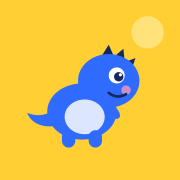
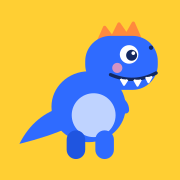
Noah APP 1.3: dinosaurio nuevo y toque andaluz en los textos
Claude-Session: https://claude.ai/code/session_01V91GhtCZwcaUQd7ALdhq1k

Changed region(s): [[0.1111, 0.0833, 0.9167, 0.8889]]

diff --git a/src/ui.js b/src/ui.js
@@ -34,7 +34,7 @@
   function ageText() {
     var n = ageDays(); if (n == null) return ''; if (n < 0) return 'Aún no ha nacido';
     if (n < 14) return plural(n, 'día', 'días');
-    if (n < 91) { var w = Math.floor(n / 7), r = n % 7; return plural(w, 'semana', 'semanas') + (r ? ' y ' + plural(r, 'día', 'días') : ''); }
+    if (n < 91) { var w = Math.floor(n / 7), r = n % 7; return plural(w, 'semanita', 'semanitas') + (r ? ' y ' + plural(r, 'día', 'días') : ''); }
     var b = parseD(birth()), t = new Date(), m = (t.getFullYear() - b.getFullYear()) * 12 + t.getMonth() - b.getMonth(); if (t.getDate() < b.getDate()) m--;
     var rest = days(addMonths(birth(), m), today());
     if (m < 24) return plural(m, 'mes', 'meses') + (rest ? ' y ' + plural(rest, 'día', 'días') : '');
@@ -101,7 +101,7 @@
   }
 
   /* ---------- piezas visuales ---------- */
-  var DINO = '<svg class="dino" viewBox="0 0 200 200" aria-hidden="true"><path d="M44 150c-20 2-34-8-38-20 14 6 28 4 40-4z" fill="#2F6BFF"/><path d="M118 44l10-16 8 18 14-12 2 20 16-6-6 18" fill="#14285E"/><ellipse cx="88" cy="128" rx="52" ry="42" fill="#2F6BFF"/><ellipse cx="128" cy="82" rx="46" ry="40" fill="#2F6BFF"/><ellipse cx="92" cy="136" rx="30" ry="26" fill="#DCE7FF"/><rect x="58" y="156" width="20" height="26" rx="10" fill="#2F6BFF"/><rect x="98" y="156" width="20" height="26" rx="10" fill="#2F6BFF"/><path d="M124 122q14 2 16 12" stroke="#2F6BFF" stroke-width="10" stroke-linecap="round" fill="none"/><circle cx="140" cy="74" r="12" fill="#fff"/><circle cx="143" cy="76" r="7" fill="#14285E"/><circle cx="145.5" cy="73" r="2.4" fill="#fff"/><circle cx="154" cy="96" r="7" fill="#FF9EB4" opacity=".75"/><path d="M128 100q12 10 26 2" stroke="#14285E" stroke-width="4" stroke-linecap="round" fill="none"/></svg>';
+  var DINO = '<svg class="dino" viewBox="0 0 200 200" aria-hidden="true"><g transform="translate(8 6)"><path d="M62 118 C40 124 22 138 10 162 C34 156 52 150 70 142 Z" fill="#2F6BFF"/><path d="M104 40 l7-16 9 12 8-16 9 13 8-14 7 16 z" fill="#FF8A3D" stroke="#FF8A3D" stroke-width="4" stroke-linejoin="round"/><ellipse cx="92" cy="118" rx="44" ry="42" fill="#2F6BFF"/><rect x="88" y="34" width="86" height="64" rx="30" fill="#2F6BFF"/><path d="M96 70 C90 84 88 96 92 108 L120 100 Z" fill="#2F6BFF"/><ellipse cx="98" cy="128" rx="26" ry="26" fill="#BFD3FF"/><rect x="66" y="146" width="22" height="34" rx="11" fill="#1F55E0"/><rect x="100" y="146" width="22" height="34" rx="11" fill="#2F6BFF"/><path d="M124 108 q12 4 12 14" stroke="#2F6BFF" stroke-width="8" stroke-linecap="round" fill="none"/><path d="M118 80 Q146 92 172 78" stroke="#14285E" stroke-width="4" stroke-linecap="round" fill="none"/><path d="M130 85 l4 7 4-6 M146 86 l4 7 4-7 M160 83 l3 6 4-7" fill="#fff" stroke="#fff" stroke-width="2.5" stroke-linejoin="round"/><circle cx="140" cy="56" r="11" fill="#fff"/><circle cx="143" cy="57" r="6.5" fill="#14285E"/><circle cx="145" cy="54.5" r="2.2" fill="#fff"/><circle cx="166" cy="48" r="2.6" fill="#14285E"/><circle cx="126" cy="72" r="6" fill="#FF9EB4" opacity=".8"/></g></svg>';
   var ICON = {
     cal: '<svg viewBox="0 0 24 24"><rect x="3.5" y="5" width="17" height="15" rx="3"/><path d="M3.5 10h17M8 3v4M16 3v4"/></svg>',
     phone: '<svg viewBox="0 0 24 24"><path d="M5 4h4l2 5-2.5 1.5a11 11 0 0 0 5 5L15 13l5 2v4a2 2 0 0 1-2 2A16 16 0 0 1 3 6a2 2 0 0 1 2-2"/></svg>',
@@ -139,10 +139,11 @@
     var kind = last.birth || last.rec.tipo === 'consulta' ? 'consulta' : 'farmacia', ser = weights(kind), i = ser.findIndex(function (x) { return x.id === last.id; });
     return { w: last, prev: ser[i - 1] };
   }
+  function greet() { var h = new Date().getHours(), n = S.me && S.me.name ? ', ' + esc(S.me.name) : ''; return (h < 6 ? '¡Buenas noches' : h < 13 ? '¡Buenos días' : h < 21 ? '¡Buenas tardes' : '¡Buenas noches') + n + '!'; }
   function gainShort(a, b) { var g = b.g - a.g, d = days(a.fecha, b.fecha) || 0; return d >= 4 && g > 0 ? '+' + Math.round(g / d * 7) + ' g/semana' : signed(g) + ' en ' + plural(d, 'día', 'días'); }
   function vHome() {
     var p = perfil(), up = live('cita').filter(function (c) { return c.fecha >= today(); }).sort(cmpCita), next = up[0];
-    var h = '<div class="home"><section class="hero"><div class="hd">' + DINO + '</div><div class="hn"><h1>' + esc(p.nombre || 'Noah') + '</h1><p>' + esc(ageText() || 'Pon su fecha de nacimiento en Ajustes') + '</p></div><button class="gear" data-act="settings" aria-label="Ajustes">' + ICON.gear + '</button></section>';
+    var h = '<div class="home"><section class="hero"><div class="hd">' + DINO + '</div><div class="hn"><p class="hi">' + greet() + '</p><h1>' + esc(p.nombre || 'Noah') + '</h1><p>' + esc(ageText() || 'Pon su fecha de nacimiento en Ajustes') + '</p></div><button class="gear" data-act="settings" aria-label="Ajustes">' + ICON.gear + '</button></section>';
     if (!S.recs.length) return h + '<div class="card hi"><h3>Empieza aquí</h3><p class="mut">Pega el texto de importación y aparecerán los datos de Noah.</p><div class="row2"><button class="btn" data-act="import">Importar datos</button></div></div></div>';
     if (next) {
       h += '<div class="card nx" data-act="editCita" data-id="' + next.id + '"><div class="nxm">' + dateBox(next.fecha) + '<div class="lm"><p class="lbl">Próxima cita · ' + rel(next.fecha) + '</p><p class="strong">' + esc(next.d.titulo) + '</p><p class="mut sm">' + citaLine(next) + '</p></div><a class="ib" href="' + esc(calLink(next)) + '" target="_blank" rel="noopener" aria-label="Añadir a Calendar">' + ICON.cal + '</a></div>';
@@ -150,10 +151,10 @@
       h += '</div>';
     }
     var lw = lastWeight(), nv = nextVac(), tr = activeTreat(), pend = live('pendiente').filter(function (x) { return !x.d.hecho; });
-    h += '<div class="tiles"><div class="tile" data-act="go" data-v="peso"><p class="lbl">Peso' + (lw ? ' · ' + fd(lw.w.fecha) : '') + '</p>' + (lw ? '<p class="big">' + kg(lw.w.g) + '<small>kg</small></p>' + pcChip(ageDays(lw.w.fecha), lw.w.g) + (function () { var st = weightStatus(); return st ? '<p class="sm stl s-' + st.level + '">' + (st.level === 'ok' ? 'Va muy bien' : esc(st.title)) + '</p>' : ''; })() : '<p class="mut">Sin pesadas</p>') + '</div>';
+    h += '<div class="tiles"><div class="tile" data-act="go" data-v="peso"><p class="lbl">Peso' + (lw ? ' · ' + fd(lw.w.fecha) : '') + '</p>' + (lw ? '<p class="big">' + kg(lw.w.g) + '<small>kg</small></p>' + pcChip(ageDays(lw.w.fecha), lw.w.g) + (function () { var st = weightStatus(); return st ? '<p class="sm stl s-' + st.level + '">' + (st.level === 'ok' ? 'Va de lujo' : esc(st.title)) + '</p>' : ''; })() : '<p class="mut">Sin pesadas</p>') + '</div>';
     h += '<div class="tile" data-act="go" data-v="vacunas"><p class="lbl">Vacunas</p>' + (nv ? '<p class="big">' + esc(nv.g.label) + '</p><p class="mut sm">' + (nv.cita ? 'Cita ' + fd(nv.cita.fecha) + (nv.cita.d.hora ? ' · ' + esc(nv.cita.d.hora) : '') : 'Desde el ' + fd(nv.due)) + '</p><p class="mut sm">' + plural(nv.g.vacs.length, 'vacuna', 'vacunas') + '</p>' : '<p class="mut">Al día</p>') + '</div>';
     h += '<div class="tile" data-act="go" data-v="diario"><p class="lbl">Tratamiento</p>' + (tr.length ? tr.slice(0, 2).map(function (t) { return '<p class="strong">' + esc(t.d.nombre.replace(/\s*\(.*\)/, '')) + '</p><p class="mut sm">' + esc(t.d.pauta || '') + '</p>'; }).join('') : '<p class="mut sm">Ninguno ahora</p>') + '</div>';
-    h += '<div class="tile" data-act="go" data-v="diario"><p class="lbl">Pendiente</p>' + (pend.length ? '<p class="big">' + pend.length + '</p><p class="mut sm one">' + esc(pend[0].d.texto) + '</p>' : '<p class="mut sm">Nada pendiente</p>') + '</div></div>';
+    h += '<div class="tile" data-act="go" data-v="diario"><p class="lbl">Pendiente</p>' + (pend.length ? '<p class="big">' + pend.length + '</p><p class="mut sm one">' + esc(pend[0].d.texto) + '</p>' : '<p class="mut sm">Nada pendiente, ¡qué gloria!</p>') + '</div></div>';
     h += '<div class="quick"><button data-act="addPeso">' + ICON.plus + 'Pesada</button><button data-act="newD" data-t="nota">' + ICON.plus + 'Nota</button><button data-act="addCita">' + ICON.plus + 'Cita</button></div></div>';
     return h;
   }
@@ -191,7 +192,7 @@
       }).join('') + '</div>';
     }
     var all = live('cita').sort(cmpCita), up = all.filter(function (c) { return c.fecha >= today(); }), past = all.filter(function (c) { return c.fecha < today(); }).reverse();
-    if (!all.length) return h + empty('No hay citas apuntadas.', 'addCita', 'Añadir cita') + '</div>';
+    if (!all.length) return h + empty('No hay citas apuntás todavía.', 'addCita', 'Añadir cita') + '</div>';
     h += up.length ? '<div class="list">' + up.map(function (c) { return citaRow(c); }).join('') + '</div>' : '<p class="mut pad">No hay citas próximas.</p>';
     if (past.length) {
       h += '<button class="link" data-act="togglePast">' + (S.showPast ? 'Ocultar' : 'Ver') + ' citas pasadas (' + past.length + ')</button>';
@@ -220,7 +221,7 @@
     }
     if (o.level === 'ok' && pL < 3) { o.level = 'watch'; o.title = 'Está por debajo de lo habitual'; o.tip = 'Coméntalo con la pediatra.'; }
     else if (o.level === 'ok' && pL > 97) { o.level = 'info'; o.title = 'Está por encima de lo habitual'; o.tip = 'Suele no tener importancia; coméntalo en la revisión.'; }
-    if (!o.title) o.title = o.ratio >= 1.25 ? 'Va muy bien, ganando con ganas' : 'Va muy bien, siguiendo su curva';
+    if (!o.title) o.title = o.ratio >= 1.25 ? 'Va de lujo, ganando con ganas' : 'Va de lujo, siguiendo su curva';
     o.lines.unshift('Pesa más que <b>' + pL + ' de cada 100</b> bebés de su edad.');
     // recuperó el peso de nacimiento
     var bw = perfil().peso;
@@ -322,7 +323,7 @@
     var f = S.seg.diario;
     var h = head('Diario', 'Tratamientos, notas y cosas pendientes', '<button class="add" data-act="addDiario" aria-label="Añadir">' + ICON.plus + '</button>') + seg('diario', [['todo', 'Todo'], ['tratamiento', 'Tratamientos'], ['nota', 'Notas'], ['pendiente', 'Pendientes']]) + '<div class="stack">';
     var list = S.recs.filter(function (r) { return !r.borrado && DTYPES[r.tipo] && (f === 'todo' || r.tipo === f); });
-    if (!list.length) return h + empty('Nada por aquí todavía.', 'addDiario', 'Añadir') + '</div>';
+    if (!list.length) return h + empty('Aquí no hay ná todavía.', 'addDiario', 'Añadir') + '</div>';
     list.sort(function (a, b) {
       var pa = a.tipo === 'pendiente' && !a.d.hecho, pb = b.tipo === 'pendiente' && !b.d.hecho; if (pa !== pb) return pa ? -1 : 1;
       return (b.fecha || '') < (a.fecha || '') ? -1 : (b.fecha || '') > (a.fecha || '') ? 1 : (b.creado < a.creado ? -1 : 1);
@@ -349,7 +350,7 @@
       '<div class="actions">' + (rec && rec.id && !opts.noDelete ? '<button type="button" class="btn ghost danger" data-act="del">Borrar</button>' : '') + '<button type="submit" class="btn">' + (opts.cta || 'Guardar') + '</button></div></form>');
     var f = layer.querySelector('form');
     f.onsubmit = function (e) { e.preventDefault(); var o = {}; new FormData(f).forEach(function (v, k) { o[k] = typeof v === 'string' ? v.trim() : v; }); o._all = new FormData(f).getAll('codes'); onSave(o); };
-    var del = f.querySelector('[data-act=del]'); if (del) del.onclick = function (e) { e.stopPropagation(); if (confirm('¿Borrar? También desaparecerá para tu pareja.')) remove(rec); };
+    var del = f.querySelector('[data-act=del]'); if (del) del.onclick = function (e) { e.stopPropagation(); if (confirm('¿Lo borramos? También desaparece pa tu pareja.')) remove(rec); };
   }
   function pedOpts() { return [['', '—']].concat(live('pediatra').map(function (p) { return [p.id, p.d.nombre + (p.d.centro ? ' · ' + p.d.centro : '')]; })); }
   function vacOpts() { return [['', 'No']].concat(R.VACCINES.map(function (g) { return [g.key, 'Vacunas de los ' + g.label]; })); }
@@ -360,21 +361,21 @@
     form(c.id ? 'Cita' : 'Nueva cita', fld('text', 'titulo', 'Qué', c.d.titulo, { ph: 'Revisión, vacunas…', req: 1 }) + '<div class="two">' + fld('date', 'fecha', 'Día', c.fecha, { req: 1 }) + fld('time', 'hora', 'Hora', c.d.hora) + '</div>' +
       fld('select', 'ped', 'Pediatra', c.d.ped, { opts: pedOpts() }) + fld('text', 'lugar', 'Lugar (si no es el de la pediatra)', c.d.lugar) + fld('select', 'vac', '¿Es de vacunas?', c.d.vac, { opts: vacOpts() }) + fld('area', 'notas', 'Notas', c.d.notas, { rows: 2 }), c.id ? c : null, function (o) {
       if (!need(o.titulo && o.fecha, 'Pon qué es y el día')) return;
-      save(Object.assign({}, c, { fecha: o.fecha, d: { titulo: o.titulo, hora: o.hora, ped: o.ped, lugar: o.lugar, vac: o.vac, notas: o.notas, dur: c.d.dur } }), 'Cita guardada');
+      save(Object.assign({}, c, { fecha: o.fecha, d: { titulo: o.titulo, hora: o.hora, ped: o.ped, lugar: o.lugar, vac: o.vac, notas: o.notas, dur: c.d.dur } }), '¡Cita apuntá!');
     });
   }
   function pedForm(p) {
     p = p || { tipo: 'pediatra', d: {} };
     form(p.id ? 'Pediatra' : 'Nueva pediatra', fld('text', 'nombre', 'Nombre', p.d.nombre, { req: 1 }) + fld('text', 'centro', 'Centro', p.d.centro) + fld('text', 'direccion', 'Dirección', p.d.direccion) +
       '<div class="two">' + fld('tel', 'tel', 'Teléfono', p.d.tel) + fld('text', 'web', 'Web', p.d.web) + '</div><div class="two">' + fld('tel', 'tel2', 'Otro teléfono', p.d.tel2) + fld('text', 'tel2Label', 'Para qué', p.d.tel2Label, { ph: 'Curas…' }) + '</div>' + fld('area', 'notas', 'Notas', p.d.notas, { rows: 2 }), p.id ? p : null, function (o) {
-      if (!need(o.nombre, 'Pon el nombre')) return; delete o._all; save(Object.assign({}, p, { d: o }), 'Guardado');
+      if (!need(o.nombre, 'Pon el nombre')) return; delete o._all; save(Object.assign({}, p, { d: o }), '¡Apuntao!');
     });
   }
   function pesoForm(r) {
     r = r || { tipo: 'peso', fecha: today(), d: {} };
     form(r.id ? 'Pesada de farmacia' : 'Pesada de farmacia', '<div class="two">' + fld('date', 'fecha', 'Día', r.fecha, { req: 1 }) + fld('text', 'g', 'Peso (g o kg)', r.d.g ? r.d.g : '', { im: 'decimal', ph: '3650', req: 1 }) + '</div>' + fld('text', 'lugar', 'Farmacia', r.d.lugar || lastVal('peso', 'lugar')) + fld('area', 'notas', 'Notas', r.d.notas, { rows: 2 }), r.id ? r : null, function (o) {
       var g = grams(o.g); if (!need(o.fecha && g && g > 1000 && g < 30000, 'Revisa el peso')) return;
-      save(Object.assign({}, r, { fecha: o.fecha, d: { g: g, lugar: o.lugar, notas: o.notas } }), 'Pesada guardada · ' + kg(g) + ' kg');
+      save(Object.assign({}, r, { fecha: o.fecha, d: { g: g, lugar: o.lugar, notas: o.notas } }), '¡Apuntá! ' + kg(g) + ' kg');
     });
   }
   function consForm(r) {
@@ -382,7 +383,7 @@
     form('Medidas de consulta', '<div class="two">' + fld('date', 'fecha', 'Día', r.fecha, { req: 1 }) + fld('select', 'ped', 'Pediatra', r.d.ped, { opts: pedOpts() }) + '</div><div class="three">' + fld('text', 'g', 'Peso (g o kg)', r.d.g || '', { im: 'decimal' }) + fld('text', 'talla', 'Talla (cm)', dec(r.d.talla), { im: 'decimal' }) + fld('text', 'pc', 'PC (cm)', dec(r.d.pc), { im: 'decimal' }) + '</div>' +
       fld('text', 'lugar', 'Lugar (si no hay pediatra)', r.d.lugar) + fld('area', 'notas', 'Notas', r.d.notas, { rows: 2 }), r.id ? r : null, function (o) {
       var g = grams(o.g); if (!need(o.fecha && (g || num(o.talla) || num(o.pc)), 'Pon al menos una medida')) return;
-      save(Object.assign({}, r, { fecha: o.fecha, d: { g: g, talla: num(o.talla), pc: num(o.pc), ped: o.ped, lugar: o.lugar, notas: o.notas } }), 'Medidas guardadas');
+      save(Object.assign({}, r, { fecha: o.fecha, d: { g: g, talla: num(o.talla), pc: num(o.pc), ped: o.ped, lugar: o.lugar, notas: o.notas } }), 'Medidas apuntás');
     });
   }
   function lastVal(t, k) { var l = live(t).filter(function (r) { return r.d[k]; }).sort(function (a, b) { return a.fecha < b.fecha ? -1 : 1; }).pop(); return l ? l.d[k] : ''; }
@@ -392,7 +393,7 @@
     var checks = g ? '<div class="f"><span>Qué se le ha puesto</span><div class="checks">' + g.vacs.map(function (x) { var l = R.vacLabel(x); return '<label class="ck"><input type="checkbox" name="codes" value="' + esc(l) + '"' + ((r.d.codes || []).indexOf(l) >= 0 ? ' checked' : '') + '><b>' + esc(l) + '</b> ' + esc(R.VNAMES[x.code]) + (x.rec ? ' <i>rec.</i>' : '') + '</label>'; }).join('') + '</div></div>' : fld('text', 'nombre', 'Vacuna', r.d.nombre, { req: 1 });
     form(g ? 'Vacunas de los ' + g.label : (r.id ? 'Vacuna' : 'Otra vacuna'), fld('date', 'fecha', 'Día', r.fecha, { req: 1 }) + checks + '<div class="two">' + fld('text', 'lote', 'Lote', r.d.lote) + fld('text', 'centro', 'Dónde', r.d.centro) + '</div>' + fld('area', 'notas', 'Notas', r.d.notas, { rows: 2 }), r.id ? r : null, function (o) {
       if (!need(o.fecha && (g ? o._all.length : o.nombre), g ? 'Marca qué se le ha puesto' : 'Pon el nombre de la vacuna')) return;
-      save(Object.assign({}, r, { fecha: o.fecha, d: { grupo: g ? key : '', nombre: g ? '' : o.nombre, codes: g ? o._all : [], lote: o.lote, centro: o.centro, notas: o.notas } }), 'Vacunas guardadas');
+      save(Object.assign({}, r, { fecha: o.fecha, d: { grupo: g ? key : '', nombre: g ? '' : o.nombre, codes: g ? o._all : [], lote: o.lote, centro: o.centro, notas: o.notas } }), '¡Vacunas puestas, valiente!');
     }, { cta: r.id ? 'Guardar' : 'Marcar como puesta' });
   }
   function vacGroupSheet(key) {
@@ -413,8 +414,8 @@
       : fld('date', 'fecha', 'Día', r.fecha) + fld('area', 'texto', 'Nota', r.d.texto, { rows: 5 });
     form(DTYPES[tipo], f, r.id ? r : null, function (o) {
       delete o._all;
-      if (tipo === 'tratamiento') { if (!need(o.nombre, 'Pon el medicamento')) return; save(Object.assign({}, r, { fecha: o.desde || r.fecha, d: o }), 'Guardado'); }
-      else { if (!need(o.texto, 'Escribe algo')) return; save(Object.assign({}, r, { fecha: o.fecha || r.fecha, d: Object.assign({}, r.d, { texto: o.texto, limite: o.limite }) }), 'Guardado'); }
+      if (tipo === 'tratamiento') { if (!need(o.nombre, 'Pon el medicamento')) return; save(Object.assign({}, r, { fecha: o.desde || r.fecha, d: o }), '¡Apuntao!'); }
+      else { if (!need(o.texto, 'Escribe algo')) return; save(Object.assign({}, r, { fecha: o.fecha || r.fecha, d: Object.assign({}, r.d, { texto: o.texto, limite: o.limite }) }), '¡Apuntao!'); }
     });
   }
   function perfilForm() {
@@ -423,7 +424,7 @@
       '<div class="three">' + fld('text', 'peso', 'Peso (g)', p.peso, { im: 'decimal' }) + fld('text', 'talla', 'Talla (cm)', dec(p.talla), { im: 'decimal' }) + fld('text', 'pc', 'PC (cm)', dec(p.pc), { im: 'decimal' }) + '</div>' +
       fld('text', 'eg', 'Semanas de gestación', p.eg, { ph: '38+2' }) + fld('text', 'alergias', 'Alergias', p.alergias) + fld('text', 'centroVacunas', 'Dónde se ponen las vacunas', p.centroVacunas), cur && cur.id ? cur : null, function (o) {
       delete o._all; o.peso = grams(o.peso); o.talla = num(o.talla); o.pc = num(o.pc);
-      save(Object.assign({}, cur || { tipo: 'perfil' }, { fecha: o.nacimiento, d: o }), 'Guardado');
+      save(Object.assign({}, cur || { tipo: 'perfil' }, { fecha: o.nacimiento, d: o }), '¡Apuntao!');
     }, { noDelete: true });
   }
 
@@ -502,7 +503,7 @@
     addVacExtra: function () { vacForm(''); }, editVac: function (d) { var r = byId(d.id); vacForm(r.d.grupo, r); },
     addDiario: function () { diarioForm(null, S.seg.diario !== 'todo' ? S.seg.diario : null); }, newD: function (d) { diarioForm(null, d.t); },
     editDiario: function (d) { diarioForm(byId(d.id)); },
-    toggleTodo: function (d) { var r = byId(d.id); save(Object.assign({}, r, { d: Object.assign({}, r.d, { hecho: !r.d.hecho }) }), r.d.hecho ? 'Pendiente otra vez' : '¡Hecho!'); },
+    toggleTodo: function (d) { var r = byId(d.id); save(Object.assign({}, r, { d: Object.assign({}, r.d, { hecho: !r.d.hecho }) }), r.d.hecho ? 'Pendiente otra vez' : '¡Hecho, una cosa menos!'); },
     pcInfo: function (d) {
       var p = d.p ? +d.p : null;
       openSheet('<div class="sheetf"><h2>¿Qué es el percentil?</h2>' + (p ? '<p class="pcbig">Percentil ' + p + '</p><p>De cada 100 bebés de su misma edad, <b>' + p + '</b> pesan menos que ' + esc(perfil().nombre || 'Noah') + ' y <b>' + (100 - p) + '</b> pesan más.</p>' : '<p>Compara su peso con el de bebés de su misma edad.</p>') +
@@ -535,7 +536,7 @@
   function screen(html) { nav.hidden = true; app.innerHTML = '<section class="welcome">' + DINO + html + '</section>'; }
 
   function boot() {
-    if (!API.token() && !S.me) return screen('<h1>Noah APP</h1><p>Citas, vacunas, peso y diario de Noah. Lo que apunta uno lo ve el otro.</p><button class="btn big" data-act="login">Entrar con Google</button><p class="mut sm">Cada uno entra con su propia cuenta.</p>');
+    if (!API.token() && !S.me) return screen('<h1>Noah APP</h1><p>Citas, vacunas, peso y diario de Noah. Lo que apunta uno, lo ve el otro al momento.</p><button class="btn big" data-act="login">Entrar con Google</button><p class="mut sm">Cada uno entra con su propia cuenta.</p>');
     if (!API.token()) { if (API.fileId() && S.recs.length) { S.ready = true; render(); } return reauth(); }
     var who = S.me ? Promise.resolve(S.me) : API.whoami();
     who.then(function (me) {
@@ -543,7 +544,7 @@
       if (API.fileId()) return start();
       return API.findFile().then(function (id) {
         if (id) return start();
-        screen('<h1>¡Hola, ' + esc(me.name) + '!</h1><p>Vamos a preparar el espacio de Noah.</p><button class="btn big" data-act="create">Empezar desde cero</button><button class="btn big ghost" data-act="joined">Me han invitado</button><p class="mut sm">Si tu pareja ya lo ha creado y te ha invitado, pulsa «Me han invitado» y elige «Noah APP · datos».</p>');
+        screen('<h1>¡Buenas, ' + esc(me.name) + '!</h1><p>Vamos a dejarlo todo listo pa Noah.</p><button class="btn big" data-act="create">Empezar desde cero</button><button class="btn big ghost" data-act="joined">Me han invitado</button><p class="mut sm">Si tu pareja ya lo ha creado y te ha invitado, pulsa «Me han invitado» y elige «Noah APP · datos».</p>');
       });
     }).catch(function (e) { if (e.auth) return reauth(); if (S.recs.length) { S.ready = true; render(); } toast(e.message); });
   }

diff --git a/src/style.css b/src/style.css
@@ -20,7 +20,7 @@ svg{display:block}
 .home{display:grid;gap:10px}
 .hero{position:relative;display:flex;align-items:center;gap:12px;background:var(--blue);color:#fff;border-radius:24px;padding:10px 12px 10px 10px;overflow:hidden}
 .hd{flex:none;width:68px;height:68px;border-radius:50%;background:var(--sun);display:grid;place-items:center;overflow:hidden}
-.hd .dino{width:62px;margin-top:8px}
+.hd .dino{width:74px;margin:8px 0 0 4px}
 .hn{flex:1;min-width:0}
 .hero h1{font-size:32px;font-weight:800;letter-spacing:-.3px}
 .hero .hn p{font-size:15.5px;font-weight:700;opacity:.95}
@@ -225,7 +225,7 @@ svg{display:block}
 
 /* bienvenida */
 .welcome{min-height:82vh;display:grid;align-content:center;gap:12px;text-align:center;padding:0 10px}
-.welcome .dino{width:170px;margin:0 auto 4px;background:var(--sun);border-radius:50%;padding:14px}
+.welcome .dino{width:170px;margin:0 auto 4px;background:var(--sun);border-radius:50%;padding:10px 14px 18px}
 .welcome h1{font-size:40px;font-weight:800}
 .welcome p{font-size:16px;color:var(--mut);font-weight:600}
 
@@ -265,3 +265,4 @@ svg{display:block}
 .wchart .lab{fill:var(--ink)} .wchart .labt{fill:#fff;font-size:10px;font-weight:800;font-family:Nunito,system-ui,sans-serif}
 .legend .lp{border-radius:0;height:0;border-top:2px dashed #E8A800;width:14px;vertical-align:3px}
 .stl{font-weight:800;margin-top:2px}.stl.s-ok{color:var(--ok)}.stl.s-watch,.stl.s-info{color:#B07D00}
+.hero .hn .hi{font-size:13px;font-weight:700;opacity:.85;margin-bottom:-2px}

diff --git a/index.html b/index.html
@@ -18,7 +18,7 @@
 <link rel="stylesheet" href="src/style.css?v=1">
 </head>
 <body>
-<div class="app" id="app"><div class="loading"><svg width="44" height="44" viewBox="0 0 48 48"><circle cx="24" cy="24" r="20" fill="none" stroke="#DCE7FF" stroke-width="6"/><path d="M24 4a20 20 0 0 1 20 20" fill="none" stroke="#2F6BFF" stroke-width="6" stroke-linecap="round"/></svg>Cargando…</div></div>
+<div class="app" id="app"><div class="loading"><svg width="44" height="44" viewBox="0 0 48 48"><circle cx="24" cy="24" r="20" fill="none" stroke="#DCE7FF" stroke-width="6"/><path d="M24 4a20 20 0 0 1 20 20" fill="none" stroke="#2F6BFF" stroke-width="6" stroke-linecap="round"/></svg>Un momentito…</div></div>
 <div id="layer"></div>
 <nav class="nav" id="nav" hidden><div class="in">
   <button data-v="home"><svg viewBox="0 0 24 24"><path d="M4 11.5 12 5l8 6.5V19a1 1 0 0 1-1 1h-4v-5h-6v5H5a1 1 0 0 1-1-1z"/></svg>Inicio</button>

diff --git a/sw.js b/sw.js
@@ -1,5 +1,5 @@
 /* Noah APP — funciona sin cobertura: la app se guarda en el móvil y se actualiza sola en segundo plano. */
-var V = 'noah-app-3';
+var V = 'noah-app-4';
 var SHELL = ['./', 'index.html', 'config.js?v=1', 'src/style.css?v=1', 'src/data.js?v=1', 'src/google.js?v=1', 'src/ui.js?v=1', 'manifest.webmanifest', 'icons/icon-192.png', 'icons/apple-touch-icon.png'];
 self.addEventListener('install', function (e) { e.waitUntil(caches.open(V).then(function (c) { return c.addAll(SHELL); }).then(function () { return self.skipWaiting(); })); });
 self.addEventListener('activate', function (e) { e.waitUntil(caches.keys().then(function (ks) { return Promise.all(ks.filter(function (k) { return k.indexOf('noah-app') === 0 && k !== V && k !== V + '-fonts'; }).map(function (k) { return caches.delete(k); })); }).then(function () { return self.clients.claim(); })); });

diff --git a/config.js b/config.js
@@ -4,4 +4,4 @@ window.APP_CONFIG = {
   API_KEY: 'AIzaSyBR1gpeuUCEhzjv-Ew3kbpGaoRJO76a4gg',     // Clave de API (restringida a este dominio y a Google Picker)
   APP_ID: '672245070663'       // Número del proyecto de Google Cloud
 };
-window.APP_VERSION = '1.2 · 23 nov';
+window.APP_VERSION = '1.3 · 23 nov';
